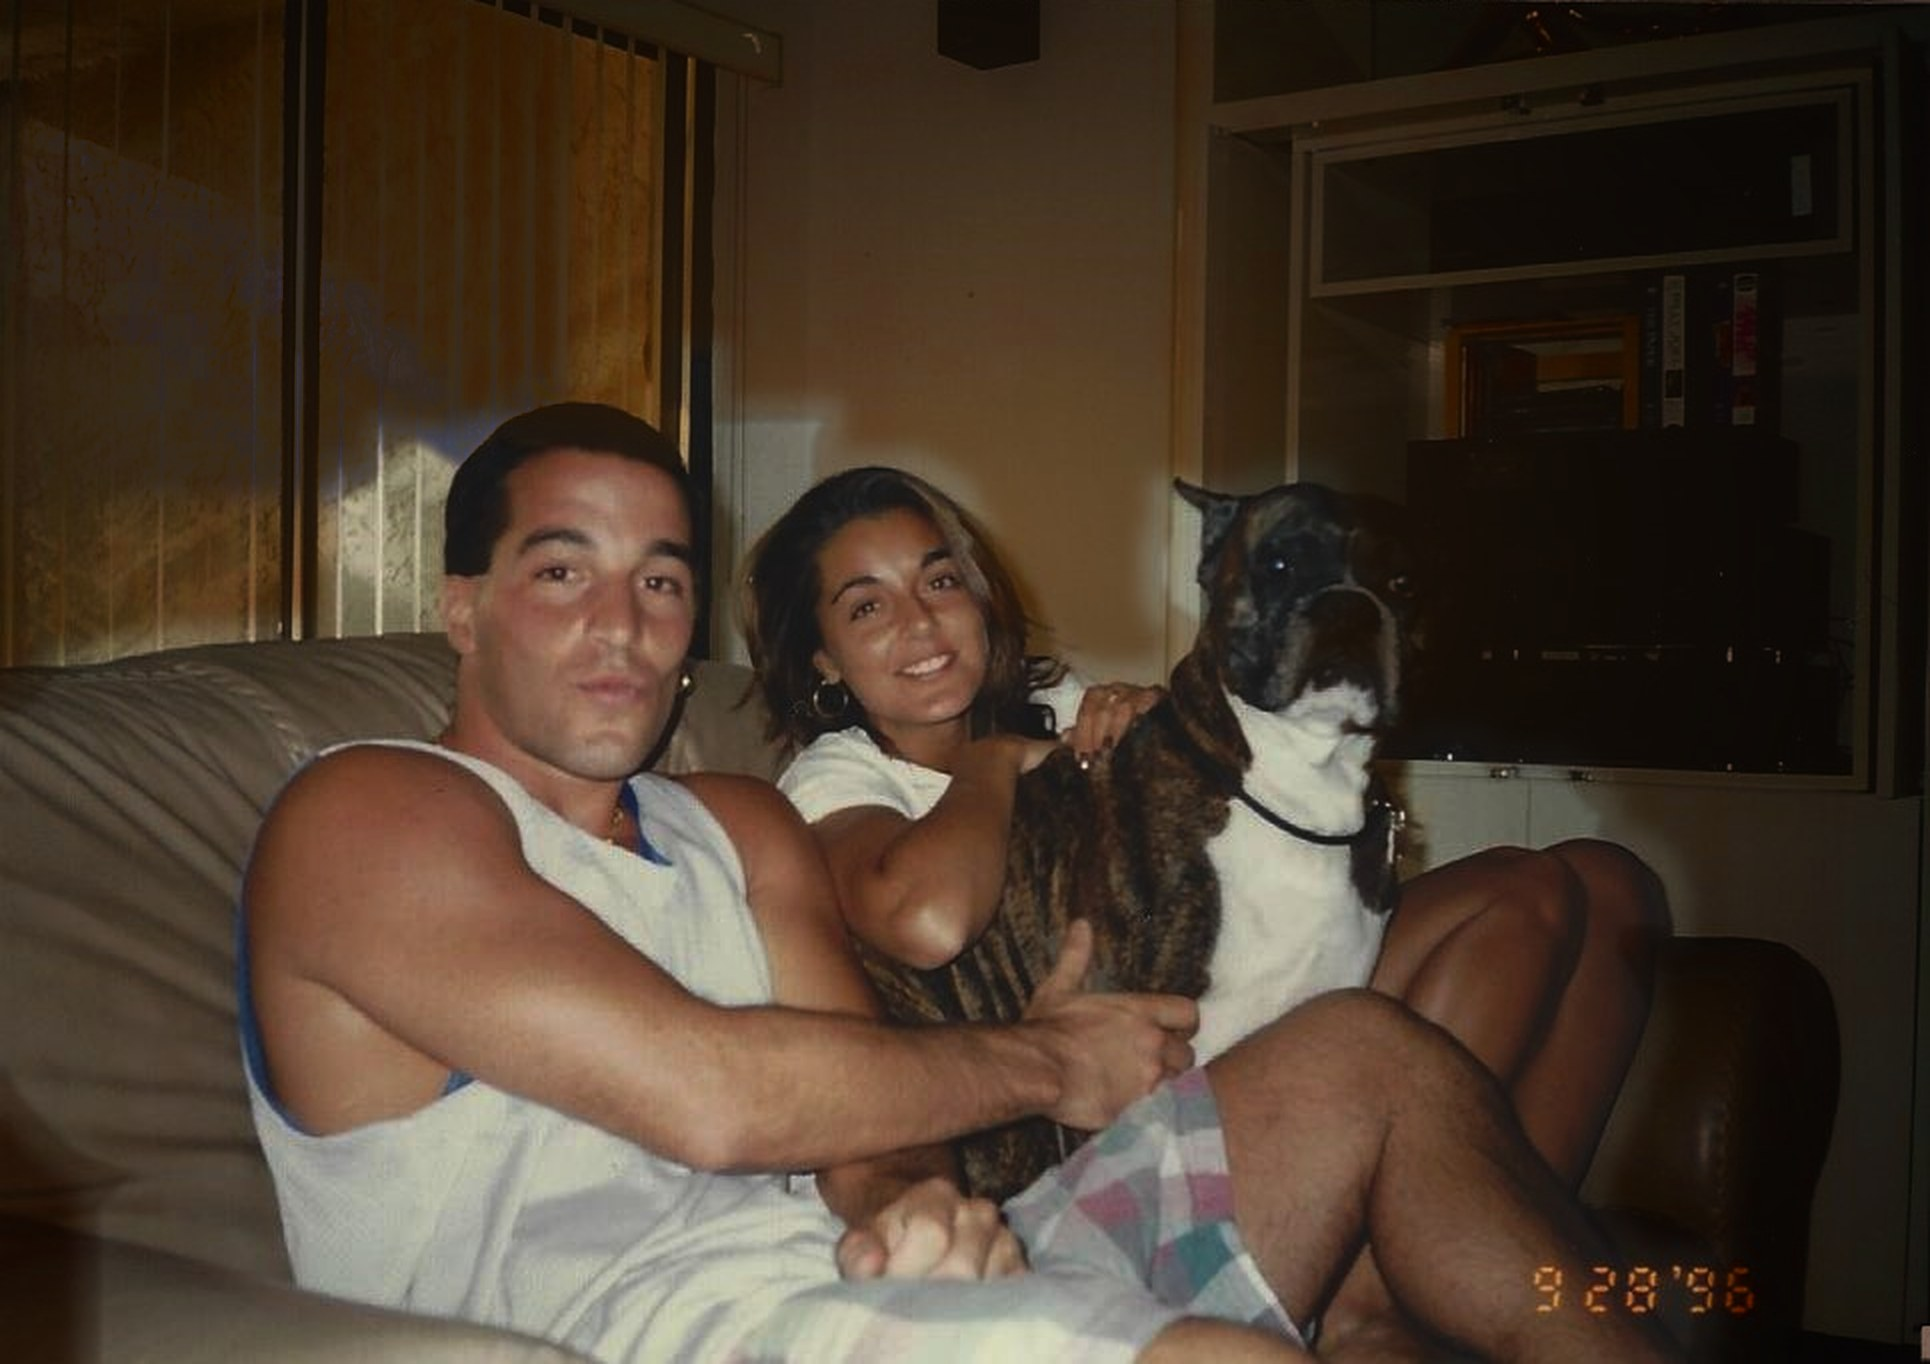
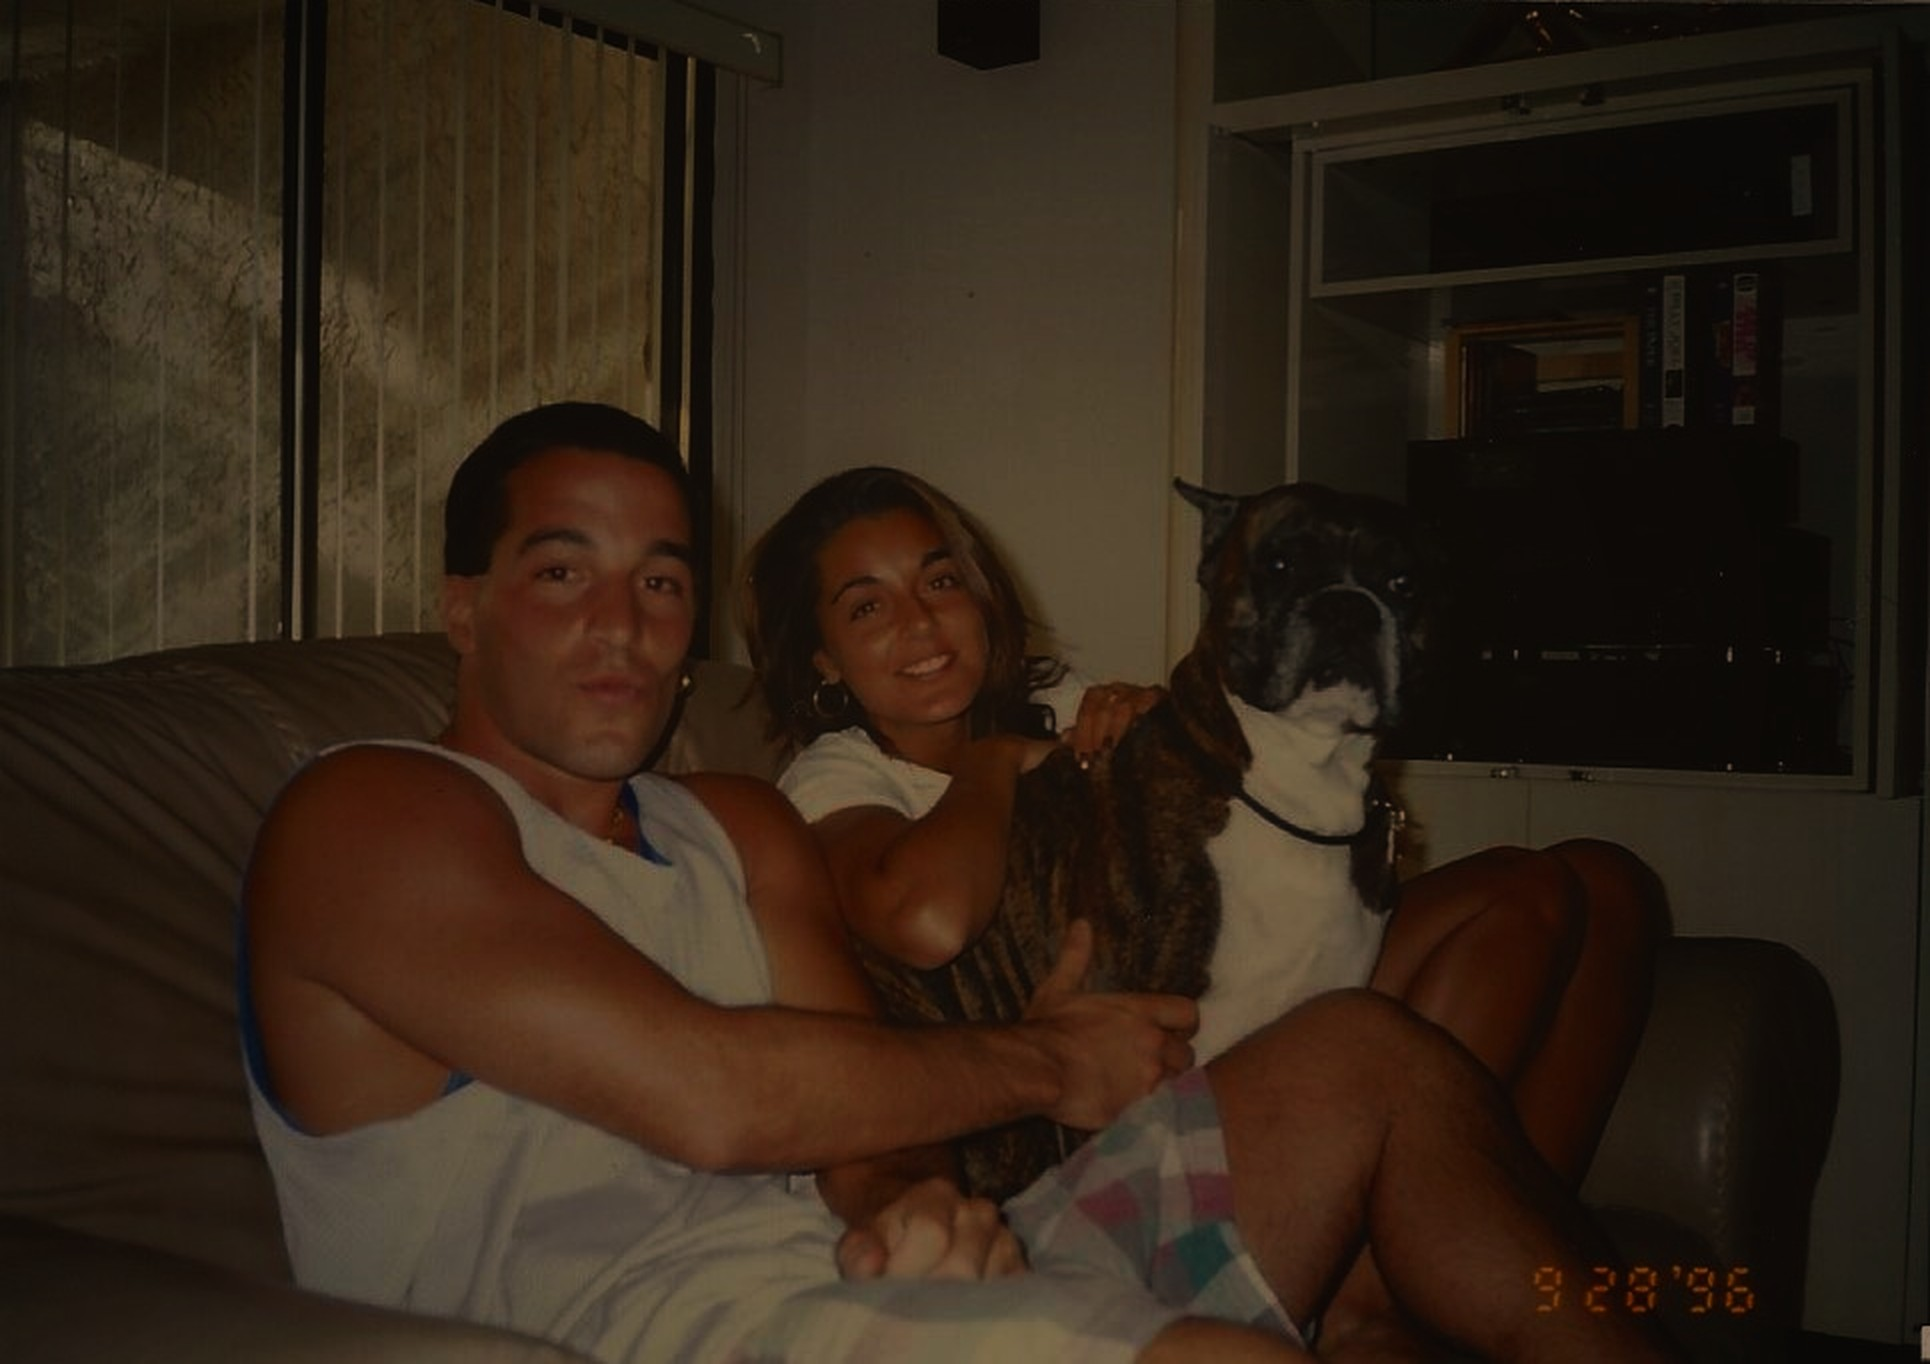
Fletch: Camp-method rebuild (no held layer)

diff --git a/fletch/index.html b/fletch/index.html
@@ -11,12 +11,8 @@
          -webkit-font-smoothing:antialiased; }
   main { min-height:100vh; display:flex; flex-direction:column; align-items:center;
          padding:34px 18px 30px; }
-  h1 { font-size:clamp(28px, 4.5vw, 44px); font-weight:normal; letter-spacing:.14em;
-       text-transform:uppercase; color:#f2ead6; text-align:center; }
-  .statement { margin-top:8px; font-style:italic; font-size:clamp(14px, 2vw, 18px);
-               color:#b9b09a; text-align:center; }
   .stage { position:relative; width:min(1120px, 100%);
-           aspect-ratio: 965 / 682; cursor:pointer; background:#000;
+           aspect-ratio: 1930 / 1364; cursor:pointer; background:#000;
            box-shadow: 0 18px 60px rgba(0,0,0,.65); }
   .stage img { position:absolute; inset:0; width:100%; height:100%;
                object-fit:contain; display:block; }
@@ -30,8 +26,6 @@
   .toggle button { border:none; font-size:15px; padding:11px 30px;
                    text-transform:uppercase; background:transparent; }
   .toggle button.on { background:#e8e2d4; color:#141310; }
-  footer { padding:26px 18px 40px; text-align:center; font-size:14px; color:#8f887a; }
-  footer a { color:#b9b09a; }
   #fs { position:fixed; inset:0; background:#000; display:none; z-index:60; cursor:pointer; overflow:hidden; }
   #fsBg { position:absolute; inset:-48px; filter:blur(30px) brightness(.55) saturate(1.2); pointer-events:none; }
   #fsBg img { position:absolute; inset:0; width:100%; height:100%; object-fit:cover; display:block; }
@@ -75,7 +69,6 @@
     <img id="lyrDay"    src="day.jpg" alt="" style="opacity:0">
     <img id="lyrGolden" src="golden.jpg" alt="" style="opacity:0">
     <img id="lyrGlow"   src="glow.jpg" alt="" style="opacity:0">
-    <img id="lyrHeld"   src="held.png" alt="" style="opacity:0">
   </div>
 
   <div class="controls">
@@ -98,35 +91,34 @@
     <img id="fsBgDay" alt="" style="opacity:0">
     <img id="fsBgGolden" alt="" style="opacity:0">
     <img id="fsBgGlow" alt="" style="opacity:0">
-    <img id="fsBgHeld" alt="" style="opacity:0">
   </div>
-  <img id="fsStill" src="still.jpg" alt="">
-  <img id="fsDay" src="day.jpg" alt="" style="opacity:0">
+  <img id="fsStill"  src="still.jpg" alt="">
+  <img id="fsDay"    src="day.jpg" alt="" style="opacity:0">
   <img id="fsGolden" src="golden.jpg" alt="" style="opacity:0">
-  <img id="fsGlow" src="glow.jpg" alt="" style="opacity:0">
-  <img id="fsHeld" src="held.png" alt="" style="opacity:0">
+  <img id="fsGlow"   src="glow.jpg" alt="" style="opacity:0">
   <div id="fsBar">
-    <button id="fsStillBtn">Still</button><button id="fsLiving" class="on">Living</button><button id="fsClose" class="x" aria-label="Close">&#10005;</button>
+    <button id="fsStillB">Still</button><button id="fsLiving" class="on">Living</button><button id="fsClose" class="x" aria-label="Close">&#10005;</button>
   </div>
 </div>
 
 <script>
 (function(){
   "use strict";
-  var T = 20;                 // scene loop, seconds: still -> revived day -> golden -> evening -> back (V4 Nov 9: depth lifted to Camp/Prom readability + cycle tightened 30s -> 20s on Gary's order)
+  var T = 20;                 // scene loop, seconds — GENTLE TRAVEL for real
+                              // photos (Gary, Nov 8): doubled from T=10,
+                              // every crossfade twice as long and soft.
   var state = 'still';        // 'still' | 'living'
   var ignited = false;
   var frozen = null;          // QA: freeze the phase at this many seconds
-  var forcedAcc = null;       // QA hook parity (this piece has no accent plates)
   // The phase is driven by WALL-CLOCK time (performance.now), never by
-  // accumulated frame deltas. Anchors: anchorP = phase seconds at anchorT
-  // (ms); rate is 7 during the ignition sweep, then 1.
+  // accumulated frame deltas: a delta clamp lets slow rendering stretch
+  // the cycle until it looks stopped. Anchors: anchorP = phase seconds
+  // at anchorT (ms); rate is 7 during the ignition sweep, then 1.
   var anchorT = 0, anchorP = 0, rate = 1;
-  var last = performance.now();
 
   function phaseNow(now){
     if (!ignited) return 0;
-    if (rate !== 1 && now - anchorT >= 1500){
+    if (rate !== 1 && now - anchorT >= 750){
       anchorP = anchorP + (now - anchorT) / 1000 * rate;
       anchorT = now; rate = 1;
     }
@@ -137,44 +129,62 @@
     return { still: document.getElementById(p+'Still'),
              day: document.getElementById(p+'Day'),
              golden: document.getElementById(p+'Golden'),
-             glow: document.getElementById(p+'Glow'),
-             held: document.getElementById(p+'Held') };
+             glow: document.getElementById(p+'Glow') };
   }
   var page = stack('lyr'), fs = stack('fs');
   var fsEl = document.getElementById('fs');
   var fsOpen = false, priorState = 'still';
 
-  // Interior timeline: faded still -> revived day -> golden hour ->
-  // lamplit evening -> gently back to the faded still. The held three
-  // (Gary, Emily, Fletch) never take any of these grades.
+  // Interior timeline (Camp's construction): the faded original holds
+  // first (the before IS the point) -> the day comes back (revival) ->
+  // golden hour -> the room settles into evening -> all grades lift and
+  // the faded photo returns, ready to live again.
   function opacities(t){
-    // V4: the v3 keyframe TIMES were authored against T=30; scale them
-    // onto the 20s loop so every dwell and fade keeps its proportion.
-    t = (((t % T) + T) % T) * (30 / T);
-    if (t < 4.3)   return { day:0, golden:0, glow:0 };
-    if (t < 7.9)   return { day:(t-4.3)/3.6, golden:0, glow:0 };
-    if (t < 11.6)  return { day:1, golden:0, glow:0 };
-    if (t < 15.2)  return { day:1, golden:(t-11.6)/3.6, glow:0 };
-    if (t < 18.9)  return { day:1, golden:1, glow:0 };
-    if (t < 22.5)  return { day:1, golden:1, glow:(t-18.9)/3.6 };
-    if (t < 26.1)  return { day:1, golden:1, glow:1 };
-    var f = (t-26.1)/3.9;
-    return { day:1-f, golden:1-f, glow:1-f };
+    t = ((t % T) + T) % T;
+    if (t < 4)       return { day:0, golden:0, glow:0 };
+    if (t < 7.3333)  return { day:(t-4)/3.3333, golden:0, glow:0 };
+    if (t < 10.0)    return { day:1, golden:0, glow:0 };
+    if (t < 12.6667) return { day:1, golden:(t-10)/2.6667, glow:0 };
+    if (t < 15.3333) return { day:1, golden:1, glow:0 };
+    if (t < 18.0)    return { day:1, golden:1, glow:(t-15.3333)/2.6667 };
+    var u = 1-(t-18.0)/2.0;
+    return { day:u, golden:u, glow:u };
   }
+  // CAMP METHOD (camp1109): NO HELD LAYER. The plates are complete
+  // global grades of the photo and the living view is their crossfade
+  // alone — no silhouette, no alpha, nothing pinned over the world.
+  // Fletch's v1-v4 held stack is permanently retired: it pinned Gary,
+  // Emily and the dog in flat daylight while the room traveled, and the
+  // boundary read as a wash on the faces and a seam around the three
+  // (Gary: "Double fail"). Here the people — and the dog — travel
+  // exactly as much as the room immediately around them, which is what
+  // light does — Camp Days' construction, the one that passed.
+  // Cycle timing (T=20) is Camp's, unchanged.
   function apply(st, so, living){
+    st.still.style.opacity = 1;
     st.day.style.opacity = so.day;
     st.golden.style.opacity = so.golden;
     st.glow.style.opacity = so.glow;
-    st.held.style.opacity = living ? 1 : 0;
+  }
+  var fsBg = { still: document.getElementById('fsBgStill'),
+               day: document.getElementById('fsBgDay'),
+               golden: document.getElementById('fsBgGolden'),
+               glow: document.getElementById('fsBgGlow') };
+  fsBg.still.src = fs.still.src; fsBg.day.src = fs.day.src;
+  fsBg.golden.src = fs.golden.src; fsBg.glow.src = fs.glow.src;
+  function applyBg(so, living){
+    fsBg.still.style.opacity = 1;
+    fsBg.day.style.opacity = so.day;
+    fsBg.golden.style.opacity = so.golden;
+    fsBg.glow.style.opacity = so.glow;
   }
   function frame(now){
-    last = now;
     var t = frozen !== null ? frozen : phaseNow(now);
     var so = opacities(t);
     var living = state === 'living';
     if (!living) so = { day:0, golden:0, glow:0 };
     apply(page, so, living);
-    if (fsOpen){ apply(fs, so, fsSaved !== 'still'); applyBg(so); }
+    if (fsOpen){ apply(fs, so, fsSaved !== 'still'); applyBg(so, fsSaved !== 'still'); }
     requestAnimationFrame(frame);
   }
   requestAnimationFrame(frame);
@@ -214,7 +224,7 @@
   // living version, X (or Esc) exits — flipping inside full screen never
   // changes the stage state underneath.
   var fsSaved = null;
-  document.getElementById('fsStillBtn').addEventListener('click', function(e){
+  document.getElementById('fsStillB').addEventListener('click', function(e){
     e.stopPropagation(); fsSaved = 'still'; applyFsMode();
   });
   document.getElementById('fsLiving').addEventListener('click', function(e){
@@ -225,27 +235,8 @@
   });
   function applyFsMode(){
     var living = fsSaved !== 'still';
-    document.getElementById('fsStillBtn').classList.toggle('on', !living);
+    document.getElementById('fsStillB').classList.toggle('on', !living);
     document.getElementById('fsLiving').classList.toggle('on', living);
-  }
-
-  // Full-screen surround: the photo shows WHOLE (contain); behind it, a
-  // blurred, darkened copy of the same plates fills the frame (whole-photo
-  // hierarchy — size changes, never the fit).
-  var fsBg = { still: document.getElementById('fsBgStill'),
-               day: document.getElementById('fsBgDay'),
-               golden: document.getElementById('fsBgGolden'),
-               glow: document.getElementById('fsBgGlow'),
-               held: document.getElementById('fsBgHeld') };
-  fsBg.still.src = fs.still.src; fsBg.day.src = fs.day.src;
-  fsBg.golden.src = fs.golden.src; fsBg.glow.src = fs.glow.src;
-  fsBg.held.src = fs.held.src;
-  function applyBg(so){
-    fsBg.still.style.opacity = 1;
-    fsBg.day.style.opacity = so.day;
-    fsBg.golden.style.opacity = so.golden;
-    fsBg.glow.style.opacity = so.glow;
-    fsBg.held.style.opacity = 1;    // full screen always shows the living composite
   }
 
   function closeFs(){
@@ -264,7 +255,6 @@
     openFs: openFs, closeFs: closeFs,
     setPhase: function(sec){ frozen = sec; },
     unfreeze: function(){ if (frozen !== null){ anchorP = frozen; anchorT = performance.now(); frozen = null; } },
-    forceAccents: function(v){ forcedAcc = v; },
     phase: function(){ return frozen !== null ? frozen : phaseNow(performance.now()); },
     state: function(){ return { state: state, fsOpen: fsOpen, clock: phaseNow(performance.now()) }; },
     opacities: opacities
